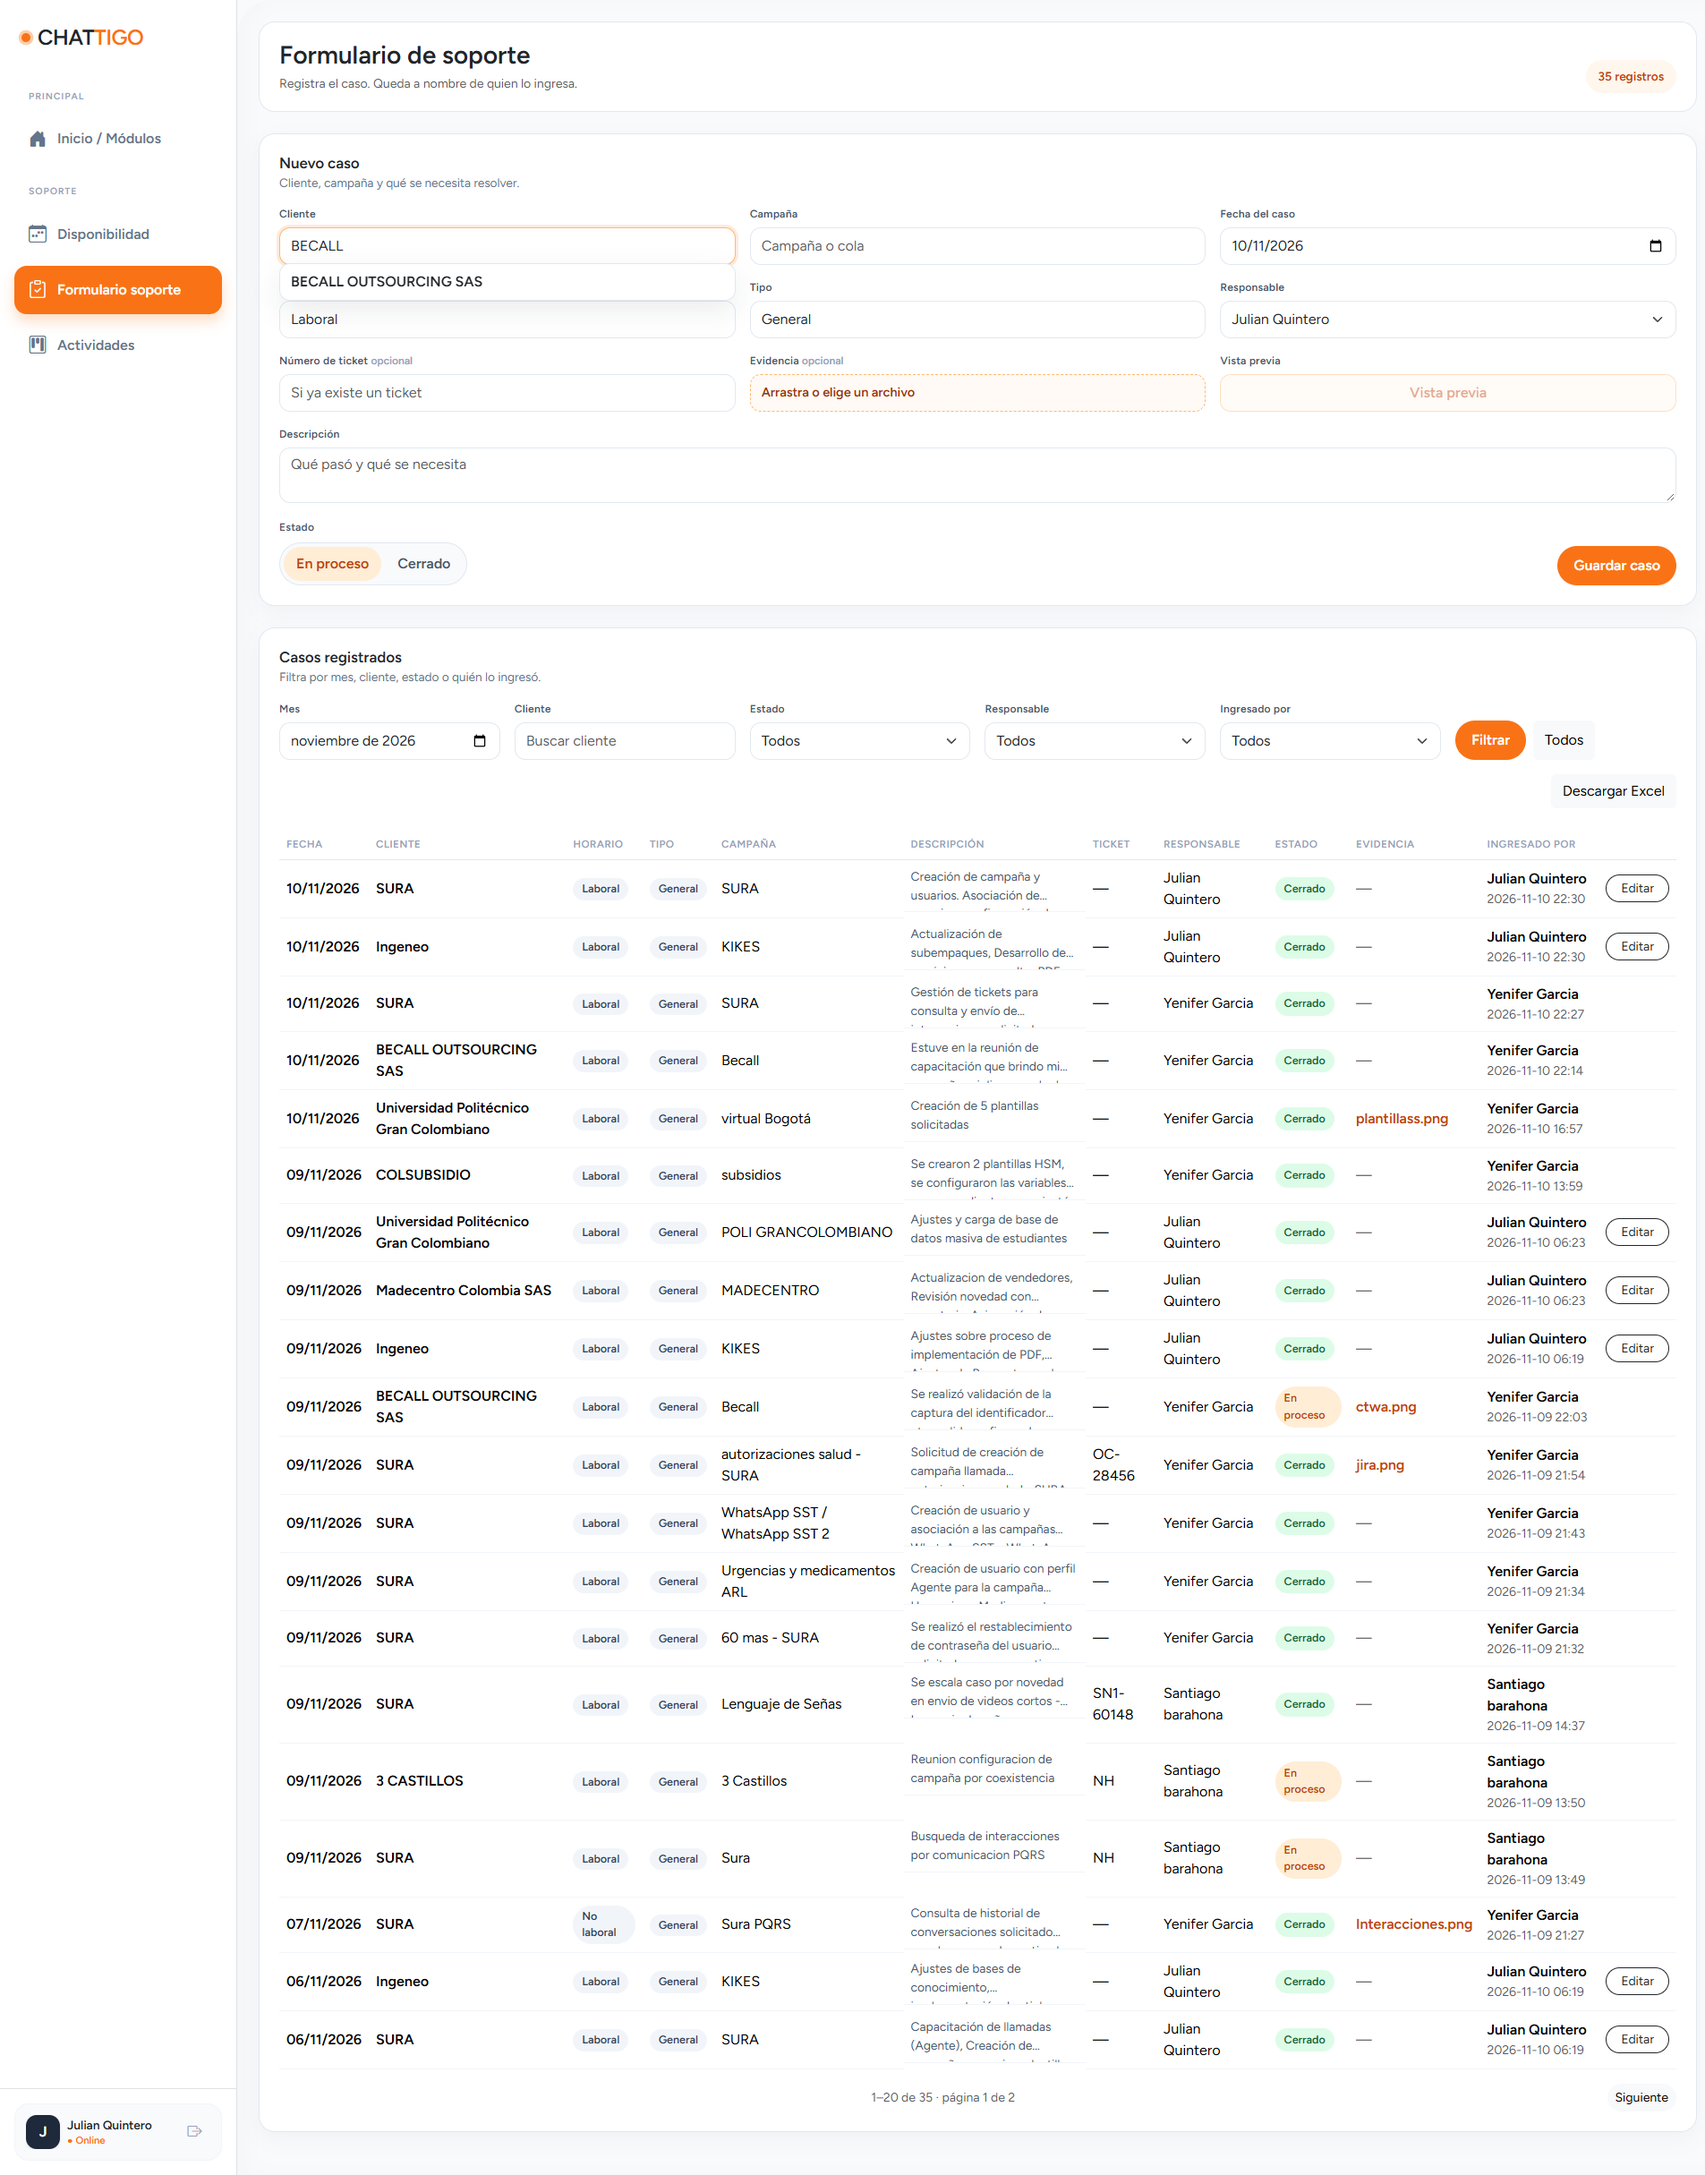
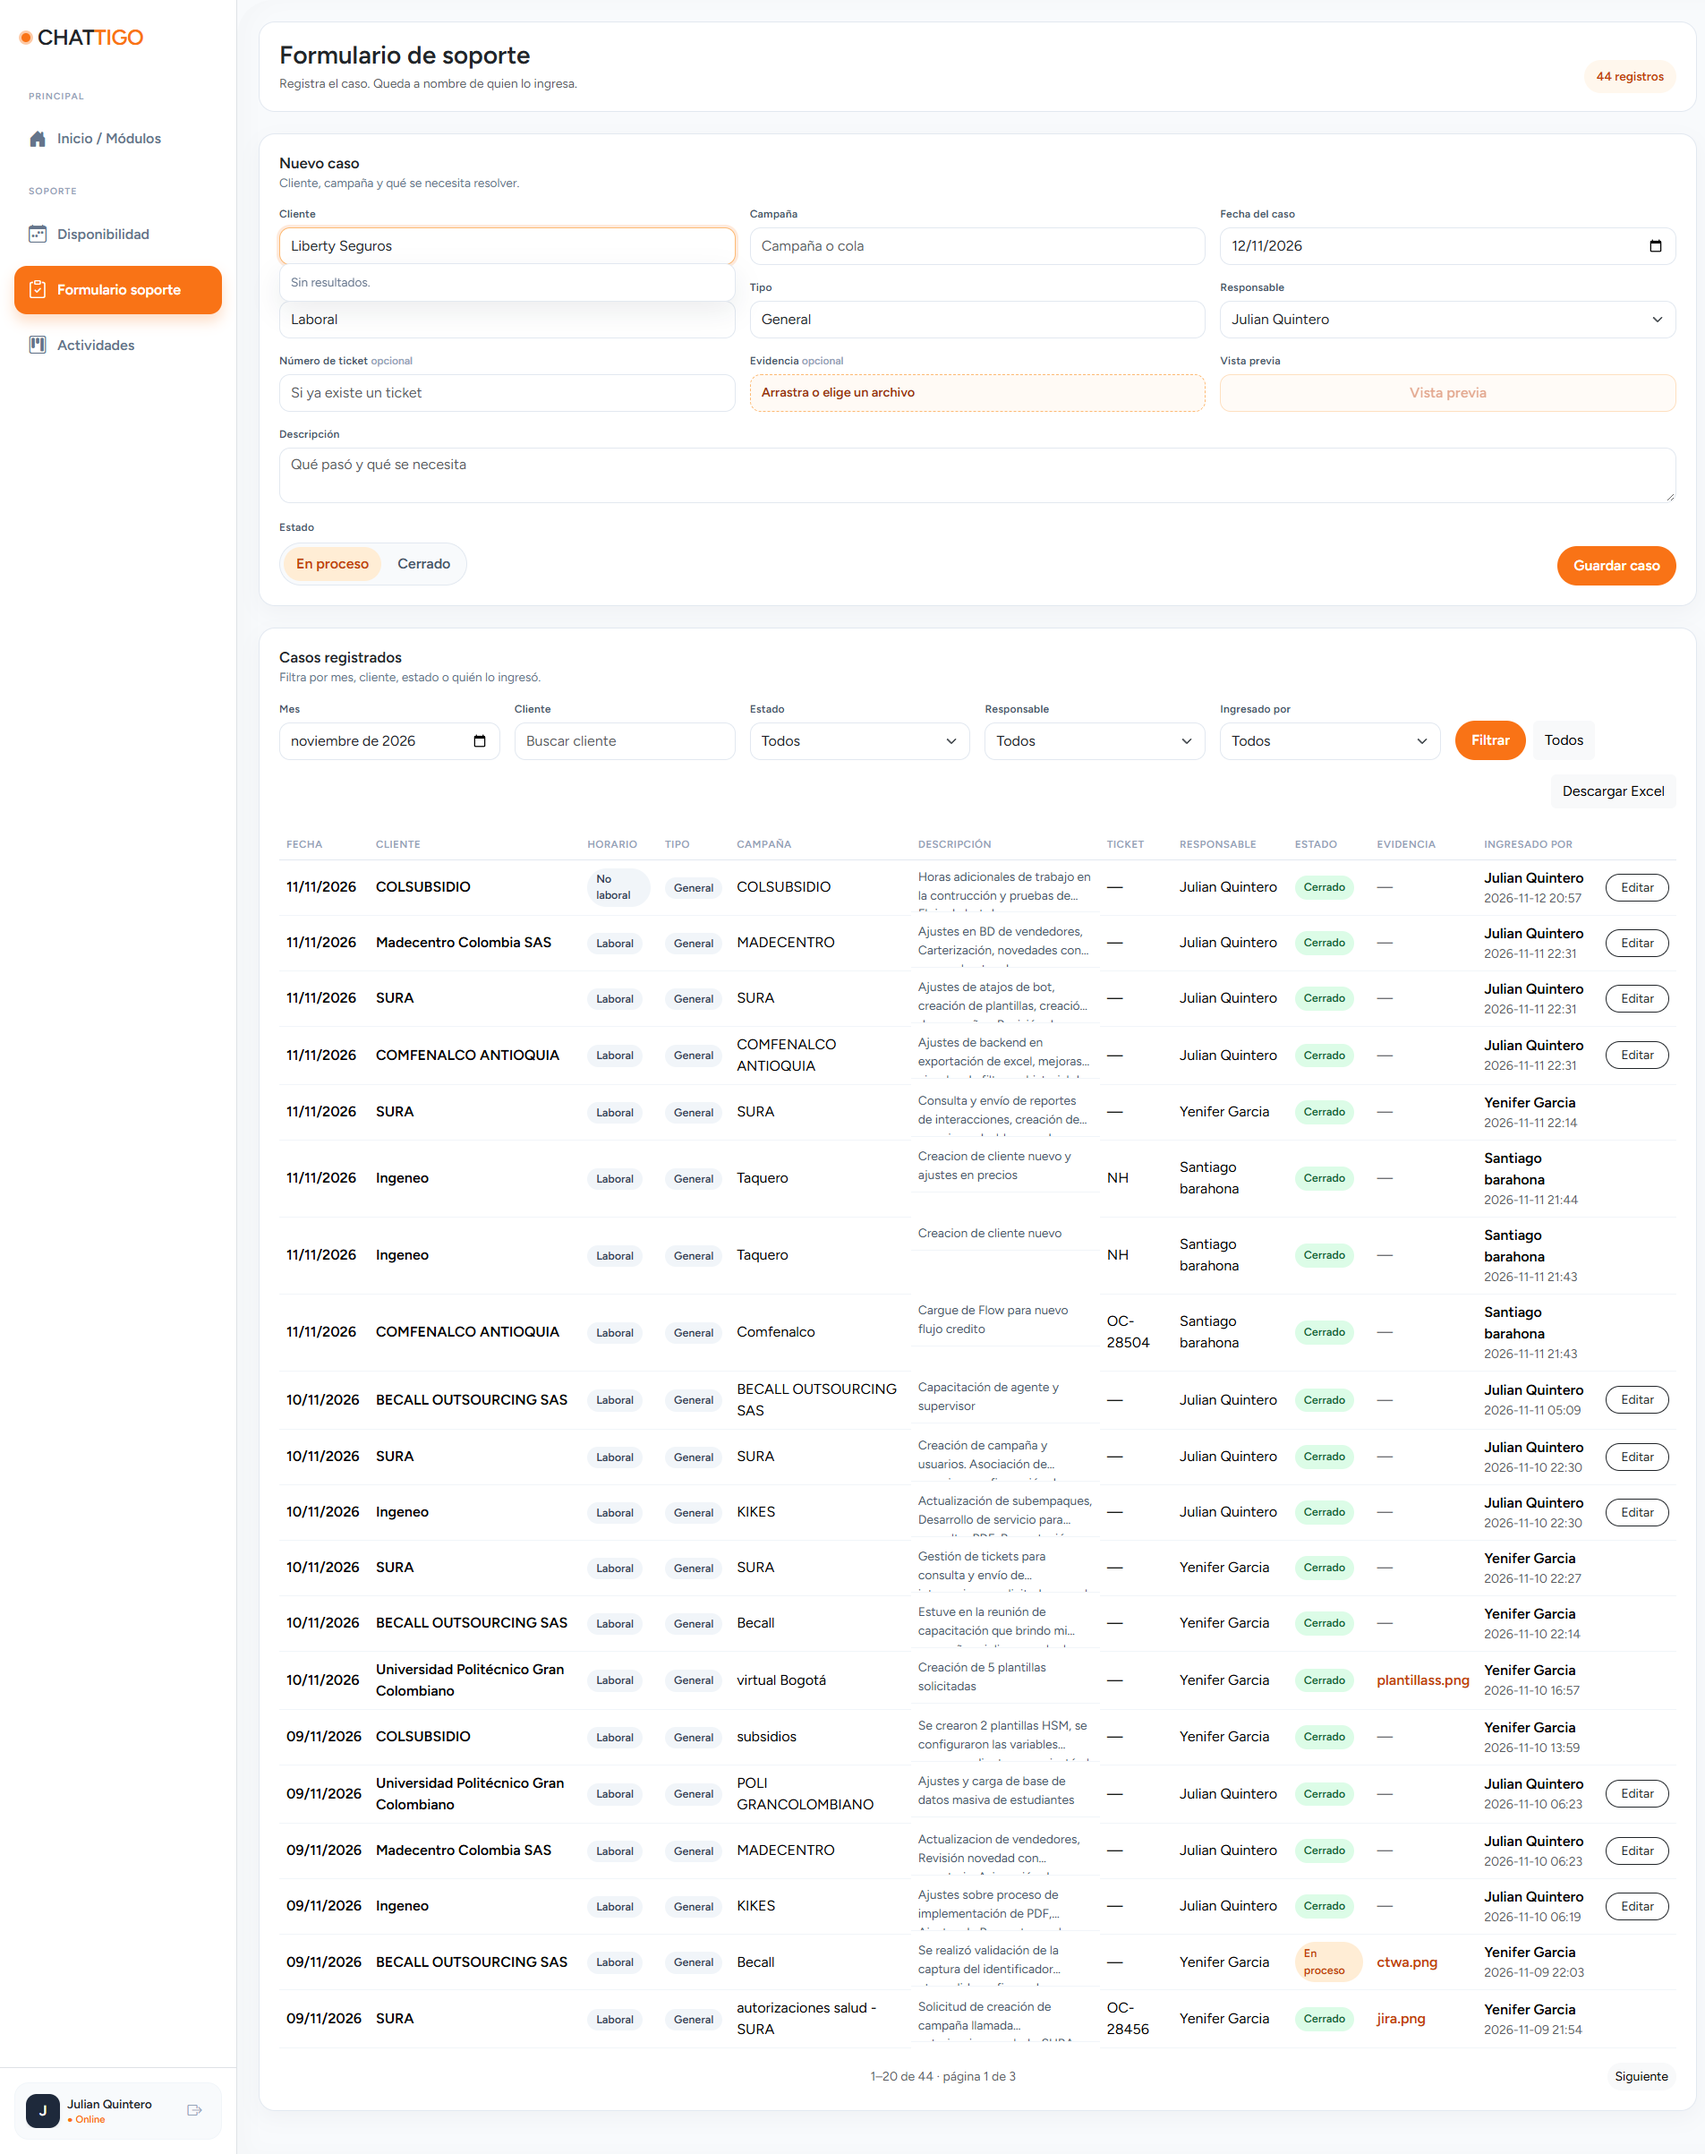
FIX: Automatización v2

diff --git a/mapeo.py b/mapeo.py
@@ -40,6 +40,7 @@ ALIAS_REDMINE_A_FORM = {
 
 # Nombre corto de la tabla -> texto con el que hay que buscarlo en el panel.
 NOMBRE_EN_PANEL = {
+    "HDI": "Liberty Colombia",
     "MADECENTRO": "Madecentro Colombia SAS",
     "POLI GRANCOLOMBIANO": "Universidad Politécnico Gran Colombiano",
     "BECALL": "BECALL OUTSOURCING SAS",
@@ -80,6 +81,30 @@ def fmt_hhmm(dt: datetime) -> str:
     return dt.strftime("%H:%M")
 
 
+# El formato viejo llama Detalle a la columna; el actual, Ajus.
+COLUMNAS_DESCRIPCION = ("Detalle", "Ajus", "Ajustes", "Descripción")
+
+
+def columna_descripcion(df: pd.DataFrame) -> str:
+    """Nombre real de la columna con el texto del caso."""
+    por_norm = {norm(c): c for c in df.columns}
+    for nombre in COLUMNAS_DESCRIPCION:
+        real = por_norm.get(norm(nombre))
+        if real is not None:
+            return real
+    encontradas = ", ".join(str(c) for c in df.columns)
+    raise ValueError(
+        "El Excel no tiene columna de descripción. "
+        f"Se espera Detalle o Ajus. Columnas encontradas: {encontradas}."
+    )
+
+
+def texto_celda(valor) -> str:
+    if pd.isna(valor):
+        return ""
+    return str(valor).strip()
+
+
 def construir_filas(df: pd.DataFrame, hora_inicio: str = "08:00",
                     horario="Laboral", tipo="General", estado="Cerrado"):
     """Convierte el Excel en filas listas para editar/enviar.
@@ -88,6 +113,7 @@ def construir_filas(df: pd.DataFrame, hora_inicio: str = "08:00",
     `hora_inicio` y cada una dura `Hora` (decimal, 8.4 = 8h24m); la siguiente
     empieza donde terminó la anterior.
     """
+    col_desc = columna_descripcion(df)
     filas = []
     cursor_por_fecha = {}
     h0, m0 = map(int, hora_inicio.split(":"))
@@ -107,7 +133,7 @@ def construir_filas(df: pd.DataFrame, hora_inicio: str = "08:00",
             "Horario atención": horario,
             "Tipo": tipo,
             "Campaña": campana,
-            "Descripción": str(r["Detalle"]).strip(),
+            "Descripción": texto_celda(r[col_desc]),
             "Estado": estado,
             "Fecha creación": fecha,
             "Hora creación": fmt_hhmm(inicio),

diff --git a/app.py b/app.py
@@ -37,7 +37,11 @@ if not archivo:
     st.stop()
 
 df = pd.read_excel(archivo, sheet_name="Formato Cargue").dropna(subset=["Proyecto / Petición"])
-filas = mapeo.construir_filas(df, hora_inicio, horario, tipo, estado)
+try:
+    filas = mapeo.construir_filas(df, hora_inicio, horario, tipo, estado)
+except ValueError as e:
+    st.error(str(e))
+    st.stop()
 
 enviados = set()
 if Path("enviados.txt").exists():
